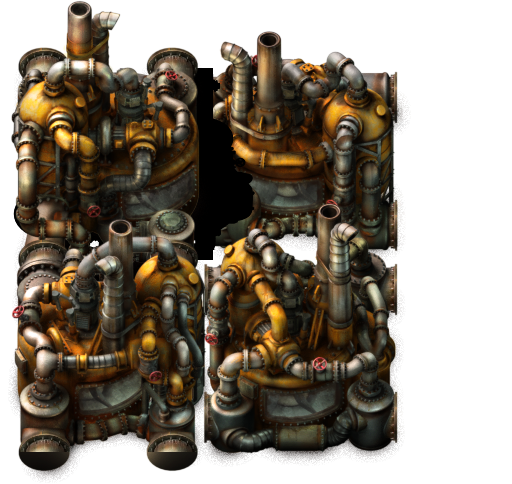
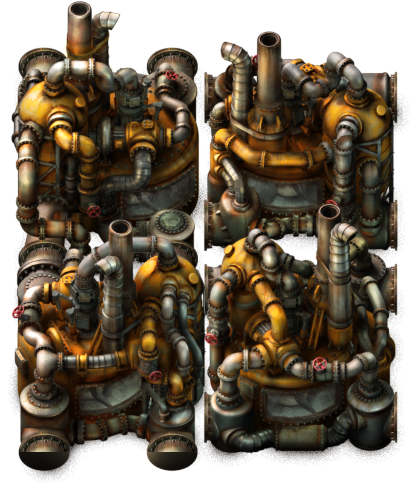
fix rotation orientation and turn off shadows on rotation buildings

diff --git a/src/draw.go b/src/draw.go
@@ -49,18 +49,14 @@ func Draw(ents []Entity, dst *image.RGBA, info map[string]EntityInfo) {
 			if info[ents[i].Name].Picture.Layers == nil {
 				fmt.Println(ents[i].Direction)
 				switch ents[i].Direction {
-				case 0:
-					layers = info[ents[i].Name].Picture.North.Layers
-					fmt.Println("her0")
-				case 2:
-					layers = info[ents[i].Name].Picture.West.Layers
-					fmt.Println("her1")
-				case 4:
-					layers = info[ents[i].Name].Picture.East.Layers
-					fmt.Println("her2")
 				case 6:
-					layers = info[ents[i].Name].Picture.South.Layers
-					fmt.Println("her3")
+					layers = info[ents[i].Name].Picture.North.Layers[:1]
+				case 2:
+					layers = info[ents[i].Name].Picture.West.Layers[:1]
+				case 4:
+					layers = info[ents[i].Name].Picture.East.Layers[:1]
+				case 0:
+					layers = info[ents[i].Name].Picture.South.Layers[:1]
 				}
 				break
 			}
